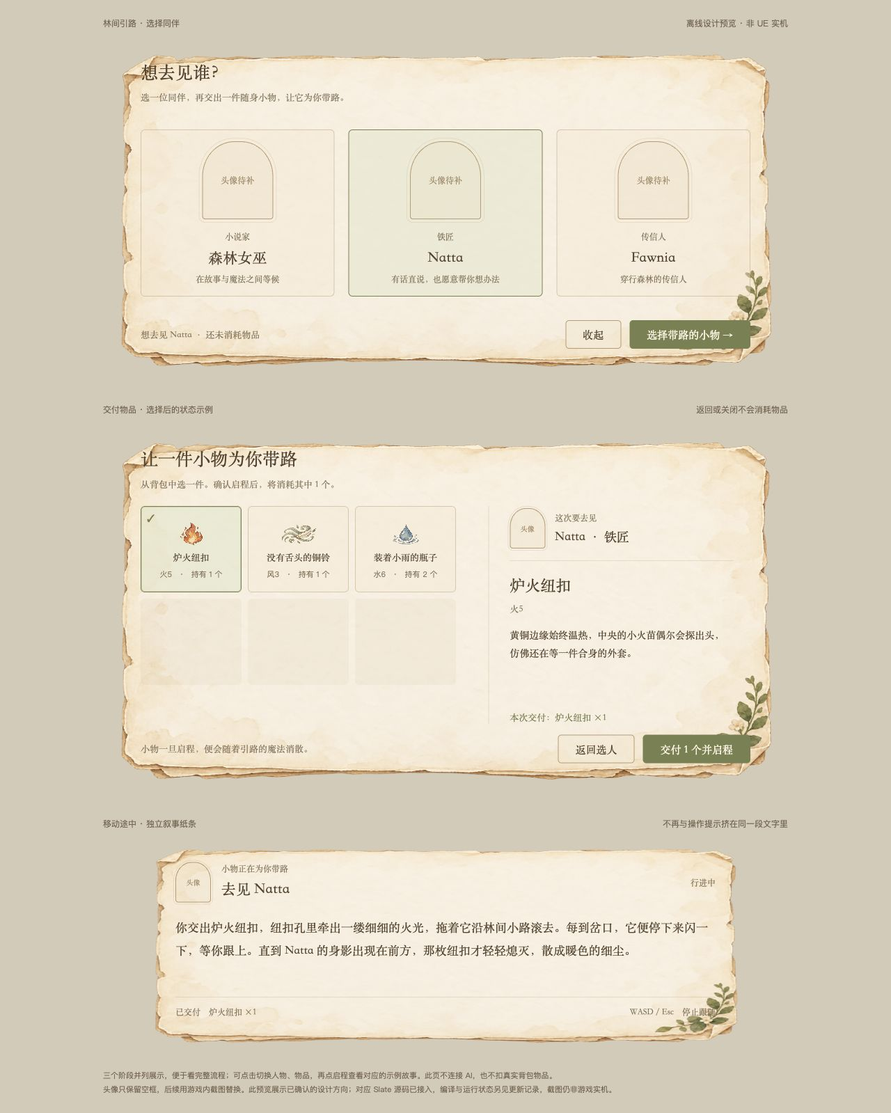
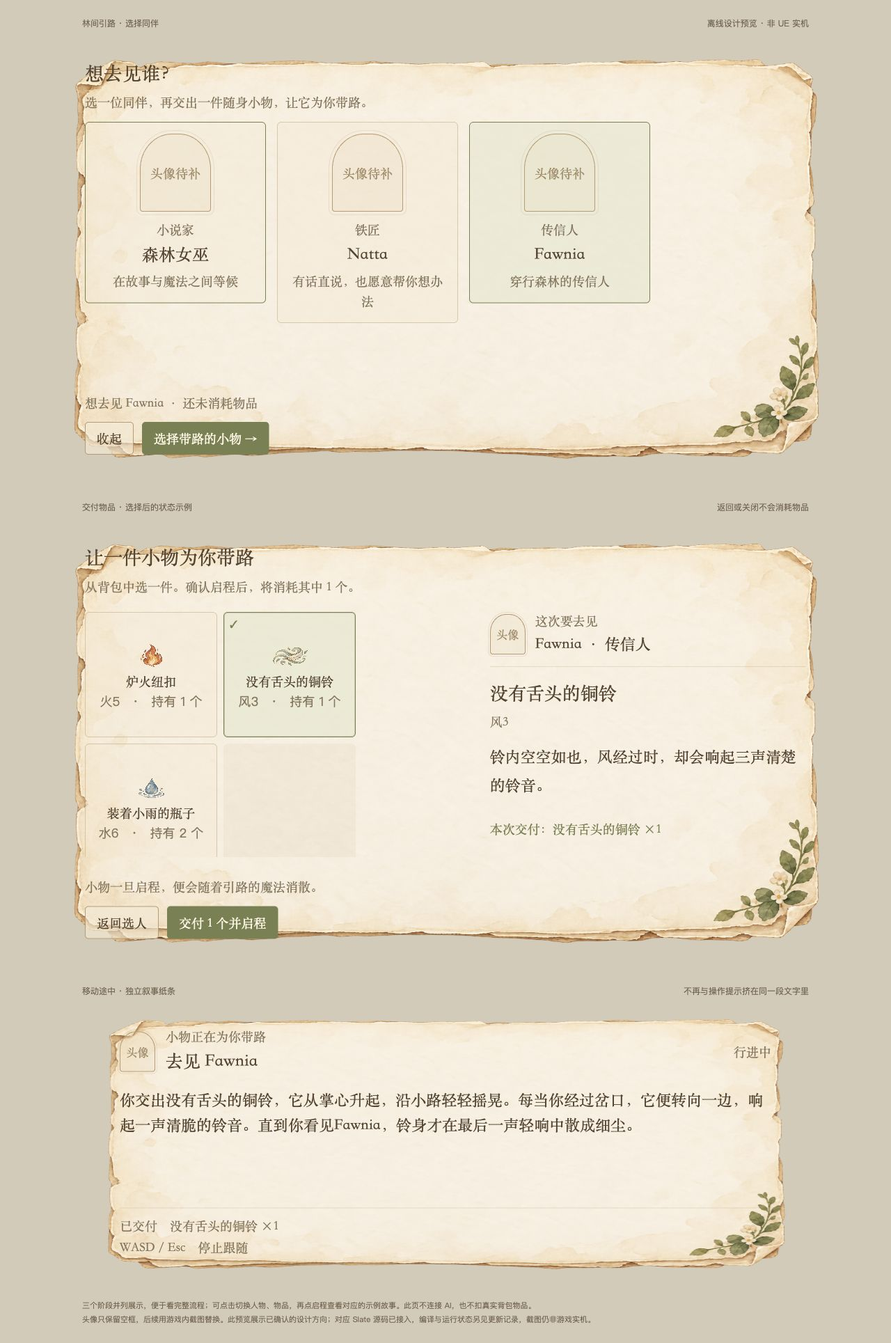
fix: reflow NPC finder payment and travel panels at readable sizes

diff --git a/Docs/NPC_Finder_Preview.html b/Docs/NPC_Finder_Preview.html
@@ -1,7 +1,11 @@
 <!doctype html><html lang="zh-CN"><meta charset="utf-8"><meta name="viewport" content="width=device-width,initial-scale=1"><title>林间引路 · 寻找同伴</title><style>
 *{box-sizing:border-box}body{margin:0;background:#d5cbb8;color:#57452f;font:16px "Songti SC",serif;padding:24px}main{width:100%;max-width:1040px;margin:auto}.label{display:flex;justify-content:space-between;font:12px sans-serif;color:#75654f;margin:0 28px 12px}.paper{background:url('../Content/UI/Textures/WoodlandPaper.png') center/100% 100% no-repeat;padding:35px 45px 43px}.paper h1{font-size:25px;font-weight:400;margin:0 0 8px}.muted{font-size:13px;color:#87765b;line-height:1.8}button{font:15px "Songti SC",serif;color:#57452f;cursor:pointer}.npcrow{display:grid;grid-template-columns:repeat(3,1fr);gap:20px;margin:20px 0 18px}.npc{background:#f4e8d155;border:1px solid #ba9b7077;border-radius:6px;padding:16px;text-align:center;min-height:228px}.npc.active{background:#dfe5c877;border-color:#77804d}.npc:hover{border-color:#77804d}.portrait{width:102px;height:112px;margin:auto auto 13px;border:1px solid #ba9b70;border-radius:45% 45% 4px 4px;outline:1px solid #ba9b7033;outline-offset:4px;background:#e9d9b944;display:flex;align-items:center;justify-content:center;color:#a48d69;font-size:12px}.npc strong{font-size:21px;font-weight:400;display:block;margin:5px 0}.role{font-size:12px;color:#87765b}.npc p{font-size:12px;margin:9px 0 0;color:#87765b}.footer{display:flex;align-items:center;gap:12px}.footer .muted{margin-right:auto}.btn{border:1px solid #ba9b70;border-radius:5px;background:#f4e8d1aa;padding:9px 24px}.btn.primary{background:#77804d;color:#fff7e5;border-color:#77804d}.btn:disabled{opacity:.45;cursor:default}.step{margin-top:24px}.payment{display:grid;grid-template-columns:57% 43%;margin:20px 0 16px;min-height:282px}.items{display:grid;grid-template-columns:repeat(3,145px);grid-auto-rows:124px;gap:9px;align-content:start}.tile{background:#f4e8d155;border:1px solid #ba9b7077;border-radius:6px;padding:8px 6px;position:relative;text-align:center}.tile.active{background:#dfe5c888;border-color:#77804d;box-shadow:inset 0 0 0 1px #77804d44}.tile .name{font-size:13px;margin:3px 0 4px}.tile small{font:11px sans-serif;color:#87765b}.tile .check{position:absolute;top:6px;left:8px;color:#77804d;font-size:15px}.empty{background:#ba9b7014;border-radius:6px}.icon{width:54px;height:44px;margin:0 auto 3px;background:url('../Content/UI/Textures/ElementEmblems.png') 0% center/300% 100%}.icon.wind{background-position:50% center}.icon.water{background-position:100% center}.detail{border-left:1px solid #ba9b7044;padding:0 24px 0 30px}.to{display:flex;align-items:center;gap:14px;border-bottom:1px solid #ba9b7044;padding-bottom:14px;margin-bottom:18px}.portrait.mini{width:51px;height:58px;margin:3px 0;font-size:10px;flex-shrink:0;outline-offset:2px}.to strong{font-size:18px;font-weight:400;display:block;margin:4px 0}.detail h2{font-size:22px;font-weight:400;margin:0 0 8px}.detail p{font-size:14px;line-height:1.85;margin:13px 0}.cost{font-size:13px;color:#77804d;margin-top:18px}.travel{width:860px;margin:0 auto;padding:34px 44px 40px}.travel-head{display:flex;align-items:center;gap:15px}.travel-head h2{font-size:21px;font-weight:400;margin:5px 0}.travel-head .right{margin-left:auto;font-size:12px;color:#87765b}.travel p{font-size:17px;line-height:1.95;margin:20px 0 15px}.travel-foot{display:flex;justify-content:space-between;font-size:12px;color:#87765b;border-top:1px solid #ba9b7044;padding-top:12px}.travel-foot button{border:0;background:none;padding:0;font:12px "Songti SC",serif;color:#87765b}.endnote{font:11px sans-serif;color:#75654f;line-height:1.8;margin:20px 28px 0}.travel-stage{padding:20px 0 10px;background:#c1bba858;border-radius:6px} .jump{scroll-margin-top:18px}
 .scale-host{position:relative;width:100%;max-width:960px;margin:0 auto;overflow:hidden}.scale-host.travel-host{max-width:860px}.scale-host>.paper{position:absolute;left:0;top:0;margin:0;transform-origin:top left;width:960px;padding:30px 42px 54px}.scale-host>.paper.select{height:500px;display:flex;flex-direction:column}.select .npcrow{flex:1;align-items:center;margin:12px 0}.scale-host>.paper.paypage{height:540px;display:flex;flex-direction:column}.paypage .payment{flex:1;min-height:0}.scale-host>.paper.travel{width:860px;height:310px;display:flex;flex-direction:column}.travel p{flex:1;min-height:0;overflow:auto;margin:16px 0}.detail{min-height:0;display:flex;flex-direction:column}.detail p{min-height:0;overflow:auto;flex:1}.items{overflow:auto;min-height:0}.label{gap:16px;line-height:1.6}.label span:last-child{text-align:right}.npcrow{gap:20px}.npc{min-height:228px}.travel-stage{background:transparent;padding:0}.endnote{margin:20px 28px 0}.footer .muted{max-width:52%}
-</style><main><header class="label"><span>林间引路 · 选择同伴</span><span>离线设计预览 · 非 UE 实机</span></header><section class="paper select"><h1>想去见谁？</h1><div class="muted">选一位同伴，再交出一件随身小物，让它为你带路。</div><div class="npcrow">
+
+/* Responsive Slate counterpart: reflow content without reducing text size. */
+main{max-width:1100px}.scale-host{max-width:1100px}.scale-host.travel-host{max-width:1000px}.scale-host>.paper{position:relative;width:100%;transform:none!important;padding:30px 32px 42px}.scale-host>.paper.select,.scale-host>.paper.paypage{height:min(640px,calc(100dvh - 48px))}.scale-host>.paper.travel{width:100%;height:min(400px,calc(100dvh - 48px))}.paper h1{font-size:27px}.muted,.role,.npc p,.cost,.travel-foot,.travel-foot button,.tile small{font-size:18px}.npc strong{font-size:24px}.npc p{line-height:1.6}.portrait{font-size:18px}.portrait.mini{font-size:16px}.npcrow{display:flex;flex-wrap:wrap;align-content:flex-start;overflow:auto;min-height:0;align-items:flex-start!important;gap:16px}.npc{width:260px;max-width:100%;flex:0 0 auto}.footer{flex-wrap:wrap;flex-shrink:0}.footer .muted{max-width:none;flex-basis:100%;margin:0}.btn{font-size:18px;padding:10px 16px}.payment{display:flex;gap:24px;overflow:auto;min-height:0;align-items:flex-start}.items{grid-template-columns:repeat(auto-fill,minmax(min(190px,100%),190px));grid-auto-rows:180px;flex:0 0 calc(55% - 12px);overflow:visible}.detail{flex:0 0 calc(45% - 12px);padding:0;border:0;min-width:0}.detail p{font-size:22px;overflow:visible;flex:none}.detail h2{font-size:26px}.tile .name{font-size:18px}.tile small{font-size:18px}.to strong{font-size:22px}.travel p{font-size:22px;line-height:1.6}.travel-head h2{font-size:25px}.travel-head .right{font-size:18px}.travel-foot{display:block}.travel-foot button{display:block;margin-top:6px}.travel-head>div{min-width:0}.select .footer,.paypage .footer{margin-top:10px}.label{flex-wrap:wrap}
+@media(max-width:927px){.payment{display:block}.items{margin-bottom:20px}.detail{display:block}.detail p{font-size:22px}.footer{gap:8px}.npc{width:min(260px,100%)}.paper h1{font-size:27px}.travel-head .right{display:none}}
+@media(max-width:747px){.scale-host>.paper.travel{height:min(600px,calc(100dvh - 48px))}}</style><main><header class="label"><span>林间引路 · 选择同伴</span><span>离线设计预览 · 非 UE 实机</span></header><section class="paper select"><h1>想去见谁？</h1><div class="muted">选一位同伴，再交出一件随身小物，让它为你带路。</div><div class="npcrow">
 <button class="npc" data-npc="森林女巫" data-role="小说家"><div class="portrait">头像待补</div><span class="role">小说家</span><strong>森林女巫</strong><p>在故事与魔法之间等候</p></button>
 <button class="npc active" data-npc="Natta" data-role="铁匠"><div class="portrait">头像待补</div><span class="role">铁匠</span><strong>Natta</strong><p>有话直说，也愿意帮你想办法</p></button>
 <button class="npc" data-npc="Fawnia" data-role="传信人"><div class="portrait">头像待补</div><span class="role">传信人</span><strong>Fawnia</strong><p>穿行森林的传信人</p></button></div><footer class="footer"><span class="muted" id="npc-hint">想去见 Natta · 还未消耗物品</span><button class="btn">收起</button><button class="btn primary" id="next">选择带路的小物 →</button></footer></section>
@@ -11,8 +15,5 @@
 <button class="tile" data-name="装着小雨的瓶子" data-attr="水6" data-desc="软木塞下飘着一片小云，瓶壁上不时滑过一滴刚落下的雨。"><span class="check"></span><div class="icon water"></div><div class="name">装着小雨的瓶子</div><small>水6　·　持有 2 个</small></button><div class="empty"></div><div class="empty"></div><div class="empty"></div></div><article class="detail"><div class="to"><div class="portrait mini">头像</div><div><span class="role">这次要去见</span><strong id="target">Natta · 铁匠</strong></div></div><h2 id="item-name">炉火纽扣</h2><span class="muted" id="attr">火5</span><p id="desc">黄铜边缘始终温热，中央的小火苗偶尔会探出头，仿佛还在等一件合身的外套。</p><div class="cost" id="cost">本次交付：炉火纽扣 ×1</div></article></div><footer class="footer"><span class="muted">小物一旦启程，便会随着引路的魔法消散。</span><button class="btn" id="back">返回选人</button><button class="btn primary" id="depart">交付 1 个并启程</button></footer></section>
 <header class="label step"><span>移动途中 · 独立叙事纸条</span><span>不再与操作提示挤在同一段文字里</span></header><div class="travel-stage jump" id="travel"><section class="paper travel"><div class="travel-head"><div class="portrait mini">头像</div><div><div class="role">小物正在为你带路</div><h2 id="travel-title">去见 Natta</h2></div><span class="right">行进中</span></div><p id="story">你交出炉火纽扣，纽扣孔里牵出一缕细细的火光，拖着它沿林间小路滚去。每到岔口，它便停下来闪一下，等你跟上。直到 Natta 的身影出现在前方，那枚纽扣才轻轻熄灭，散成暖色的细尘。</p><footer class="travel-foot"><span id="spent">已交付　炉火纽扣 ×1</span><button id="cancel">WASD / Esc　停止跟随</button></footer></section></div><p class="endnote">三个阶段并列展示，便于看完整流程；可点击切换人物、物品，再点启程查看对应的示例故事。此页不连接 AI，也不扣真实背包物品。<br>头像只保留空框，后续用游戏内截图替换。此预览展示已确认的设计方向；对应 Slate 源码已接入，编译与运行状态另见更新记录，截图仍非游戏实机。</p></main><script>
 for(const paper of document.querySelectorAll('.paper')){const host=document.createElement('div');host.className='scale-host'+(paper.classList.contains('travel')?' travel-host':'');paper.parentNode.insertBefore(host,paper);host.appendChild(paper)}
-function fitPanels(){for(const host of document.querySelectorAll('.scale-host')){const p=host.firstElementChild;const w=p.classList.contains('travel')?860:960;const h=p.classList.contains('select')?500:p.classList.contains('travel')?310:540;const scale=Math.min(1,host.clientWidth/w,Math.max(1,innerHeight-48)/h);p.style.transform='scale('+scale+')';host.style.height=(h*scale)+'px'}}
-new ResizeObserver(fitPanels).observe(document.querySelector('main'));addEventListener('resize',fitPanels);fitPanels();
-
-let npc='Natta',role='铁匠',item='炉火纽扣';const items=[...document.querySelectorAll('.tile')];document.querySelectorAll('.npc').forEach(b=>b.onclick=()=>{document.querySelectorAll('.npc').forEach(x=>x.classList.remove('active'));b.classList.add('active');npc=b.dataset.npc;role=b.dataset.role;document.querySelector('#target').textContent=npc+' · '+role;document.querySelector('#npc-hint').textContent='想去见 '+npc+' · 还未消耗物品';items.forEach(x=>{x.classList.remove('active');x.querySelector('.check').textContent=''});item='';document.querySelector('#item-name').textContent='选择一件小物';document.querySelector('#attr').textContent='';document.querySelector('#desc').textContent='在左侧点击物品，查看它的描述与交付数量。';document.querySelector('#cost').textContent='尚未选择，不会扣除物品';document.querySelector('#depart').disabled=true});items.forEach(b=>b.onclick=()=>{items.forEach(x=>{x.classList.remove('active');x.querySelector('.check').textContent=''});b.classList.add('active');b.querySelector('.check').textContent='✓';item=b.dataset.name;document.querySelector('#item-name').textContent=item;document.querySelector('#attr').textContent=b.dataset.attr;document.querySelector('#desc').textContent=b.dataset.desc;document.querySelector('#cost').textContent='本次交付：'+item+' ×1';document.querySelector('#depart').disabled=false});document.querySelector('#next').onclick=()=>document.querySelector('#payment').parentElement.scrollIntoView();document.querySelector('#back').onclick=()=>window.scrollTo({top:0});document.querySelector('#depart').onclick=()=>{if(!item)return;document.querySelector('#travel-title').textContent='去见 '+npc;document.querySelector('#spent').textContent='已交付　'+item+' ×1';let story=item.includes('铜铃')?'你交出'+item+'，它从掌心升起，沿小路轻轻摇晃。每当你经过岔口，它便转向一边，响起一声清脆的铃音。直到你看见'+npc+'，铃身才在最后一声轻响中散成细尘。':item.includes('瓶子')?'你交出'+item+'，瓶中的小雨贴着玻璃转了一圈，带着瓶子向前飘去。它在林间拐弯，停下来等你，再继续轻轻摇晃。直到'+npc+'出现在前方，瓶身才化成一小阵雨，落在路边的草叶上。':'你交出'+item+'，纽扣孔里牵出一缕细细的火光，拖着它沿林间小路滚去。每到岔口，它便停下来闪一下，等你跟上。直到'+npc+'的身影出现在前方，那枚纽扣才轻轻熄灭，散成暖色的细尘。';document.querySelector('#story').textContent=story;document.querySelector('#travel').scrollIntoView()};document.querySelector('#cancel').onclick=()=>{document.querySelector('#travel-title').textContent='已停止跟随';document.querySelector('#story').textContent='引路的小物已散去。你在林间停下脚步，可以继续自由探索。'};
+let npc='Natta',role='铁匠',item='炉火纽扣';const items=[...document.querySelectorAll('.tile')];document.querySelectorAll('.npc').forEach(b=>b.onclick=()=>{document.querySelectorAll('.npc').forEach(x=>x.classList.remove('active'));b.classList.add('active');npc=b.dataset.npc;role=b.dataset.role;document.querySelector('#target').textContent=npc+' · '+role;document.querySelector('#npc-hint').textContent='想去见 '+npc+' · 还未消耗物品';items.forEach(x=>{x.classList.remove('active');x.querySelector('.check').textContent=''});item='';document.querySelector('#item-name').textContent='选择一件小物';document.querySelector('#attr').textContent='';document.querySelector('#desc').textContent='点击物品，查看它的描述与交付数量。';document.querySelector('#cost').textContent='尚未选择，不会扣除物品';document.querySelector('#depart').disabled=true});items.forEach(b=>b.onclick=()=>{items.forEach(x=>{x.classList.remove('active');x.querySelector('.check').textContent=''});b.classList.add('active');b.querySelector('.check').textContent='✓';item=b.dataset.name;document.querySelector('#item-name').textContent=item;document.querySelector('#attr').textContent=b.dataset.attr;document.querySelector('#desc').textContent=b.dataset.desc;document.querySelector('#cost').textContent='本次交付：'+item+' ×1';document.querySelector('#depart').disabled=false});document.querySelector('#next').onclick=()=>document.querySelector('#payment').parentElement.scrollIntoView();document.querySelector('#back').onclick=()=>window.scrollTo({top:0});document.querySelector('#depart').onclick=()=>{if(!item)return;document.querySelector('#travel-title').textContent='去见 '+npc;document.querySelector('#spent').textContent='已交付　'+item+' ×1';let story=item.includes('铜铃')?'你交出'+item+'，它从掌心升起，沿小路轻轻摇晃。每当你经过岔口，它便转向一边，响起一声清脆的铃音。直到你看见'+npc+'，铃身才在最后一声轻响中散成细尘。':item.includes('瓶子')?'你交出'+item+'，瓶中的小雨贴着玻璃转了一圈，带着瓶子向前飘去。它在林间拐弯，停下来等你，再继续轻轻摇晃。直到'+npc+'出现在前方，瓶身才化成一小阵雨，落在路边的草叶上。':'你交出'+item+'，纽扣孔里牵出一缕细细的火光，拖着它沿林间小路滚去。每到岔口，它便停下来闪一下，等你跟上。直到'+npc+'的身影出现在前方，那枚纽扣才轻轻熄灭，散成暖色的细尘。';document.querySelector('#story').textContent=story;document.querySelector('#travel').scrollIntoView()};document.querySelector('#cancel').onclick=()=>{document.querySelector('#travel-title').textContent='已停止跟随';document.querySelector('#story').textContent='引路的小物已散去。你在林间停下脚步，可以继续自由探索。'};
 </script></html>

diff --git a/Source/demo3_UE58/ForestNPCInteraction.cpp b/Source/demo3_UE58/ForestNPCInteraction.cpp
@@ -22,7 +22,6 @@
 #include "Widgets/Layout/SBorder.h"
 #include "Widgets/Layout/SBox.h"
 #include "Widgets/Layout/SScrollBox.h"
-#include "Widgets/Layout/SScaleBox.h"
 #include "Widgets/Layout/SWrapBox.h"
 #include "Widgets/Layout/SWidgetSwitcher.h"
 #include "Widgets/Images/SImage.h"
@@ -36,6 +35,7 @@ namespace ForestUI
 {
  using ForestTheme::Ink;using ForestTheme::Muted;using ForestTheme::Moss;
  using ForestTheme::Font;using ForestTheme::Fill;
+ FSlateFontInfo FinderFont(int32 Size){return Font(FMath::Max(16,Size+4));}
 
  struct FItemView
  {
@@ -63,7 +63,7 @@ namespace ForestUI
   static const FSlateRoundedBoxBrush Frame(FLinearColor(1,1,1,.08f),FVector4(35,35,4,4),ForestTheme::Edge,1.f);
   return SNew(SBox).WidthOverride(Width).HeightOverride(Height)
    [SNew(SBorder).BorderImage(&Frame).HAlign(HAlign_Center).VAlign(VAlign_Center)
-    [SNew(STextBlock).Text(FText::FromString(TEXT("头像待补"))).Font(Font(9)).ColorAndOpacity(Muted)]];
+    [SNew(STextBlock).Text(FText::FromString(TEXT("头像待补"))).Font(FinderFont(12)).ColorAndOpacity(Muted).WrapTextAt(FMath::Max(1.f,Width-10.f)).Justification(ETextJustify::Center)]];
  }
 }
 
@@ -80,74 +80,71 @@ void UForestNPCInteractionWidget::SetPanel(EPanel Mode)
 TSharedRef<SWidget> UForestNPCInteractionWidget::RebuildWidget()
 {
  SetIsFocusable(true);
- auto Text=[](const FString& Value,int32 Size){return SNew(STextBlock).Text(FText::FromString(Value)).Font(ForestUI::Font(Size)).ColorAndOpacity(ForestUI::Ink).AutoWrapText(true);};
- auto Secondary=[&Text](const TCHAR* Label,FOnClicked Action)->TSharedRef<SWidget>{
-  return SNew(SButton).ButtonStyle(&ForestTheme::SecondaryButton()).ContentPadding(FMargin(20,9)).OnClicked(Action)[Text(Label,12)];
- };
- auto NpcCard=[this](const TCHAR* Role,const TCHAR* Name,const TCHAR* Detail,FName Persona)->TSharedRef<SWidget>{
+ auto Text=[this](const FString& Value,int32 Size){return SNew(STextBlock).Text(FText::FromString(Value))
+  .Font_Lambda([this,Size](){return Panel==EPanel::Selecting || Panel==EPanel::Confirming || Panel==EPanel::Travelling?ForestUI::FinderFont(Size):ForestUI::Font(Size);})
+  .ColorAndOpacity(ForestUI::Ink).AutoWrapText(true);};
+ auto Secondary=[&Text](const TCHAR* Label,FOnClicked Action)->TSharedRef<SWidget>{return SNew(SButton).ButtonStyle(&ForestTheme::SecondaryButton()).ContentPadding(FMargin(16,10)).OnClicked(Action)[Text(Label,12)];};
+ auto Cancel=FOnClicked::CreateLambda([this](){FinderCancelClicked();return FReply::Handled();});
+ auto NpcCard=[this](const TCHAR* Role,const TCHAR* Name,const TCHAR* Detail,FName Persona)->TSharedRef<SWidget>
+ {
   const FString SafeName(Name);
-  return SNew(SButton).ButtonStyle(&ForestTheme::SecondaryButton()).ContentPadding(FMargin(18,16))
+  return SNew(SBox).WidthOverride_Lambda([this](){return FMath::Max(1.f,FMath::Min(260.f,LayoutWidth-64.f));})
+  [SNew(SButton).ButtonStyle(&ForestTheme::SecondaryButton()).ContentPadding(FMargin(16))
    .ButtonColorAndOpacity_Lambda([this,Persona](){return SelectedFinderPersona==Persona?ForestTheme::SelectedPaper:FLinearColor::White;})
    .OnClicked_Lambda([this,Persona,SafeName](){SelectedFinderPersona=Persona;Prompt->SetText(FText::FromString(FString::Printf(TEXT("想去见 %s · 还未消耗物品"),*SafeName)));return FReply::Handled();})
    [SNew(SVerticalBox)
-    +SVerticalBox::Slot().AutoHeight().HAlign(HAlign_Center).Padding(0,0,0,14)[ForestUI::Portrait(100,112)]
-    +SVerticalBox::Slot().AutoHeight().HAlign(HAlign_Center)[SNew(STextBlock).Text(FText::FromString(Role)).Font(ForestUI::Font(10)).ColorAndOpacity(ForestUI::Muted)]
-    +SVerticalBox::Slot().AutoHeight().HAlign(HAlign_Center).Padding(0,6)[SNew(STextBlock).Text(FText::FromString(Name)).Font(ForestUI::Font(18)).ColorAndOpacity(ForestUI::Ink)]
-    +SVerticalBox::Slot().AutoHeight().HAlign(HAlign_Center)[SNew(STextBlock).Text(FText::FromString(Detail)).Font(ForestUI::Font(10)).ColorAndOpacity(ForestUI::Muted).WrapTextAt(230).Justification(ETextJustify::Center)]];
+    +SVerticalBox::Slot().AutoHeight().HAlign(HAlign_Center).Padding(0,0,0,12)[ForestUI::Portrait(100,112)]
+    +SVerticalBox::Slot().AutoHeight()[SNew(STextBlock).Text(FText::FromString(Role)).Font(ForestUI::FinderFont(10)).ColorAndOpacity(ForestUI::Muted).Justification(ETextJustify::Center).AutoWrapText(true)]
+    +SVerticalBox::Slot().AutoHeight().Padding(0,6)[SNew(STextBlock).Text(FText::FromString(Name)).Font(ForestUI::FinderFont(18)).ColorAndOpacity(ForestUI::Ink).Justification(ETextJustify::Center).AutoWrapText(true)]
+    +SVerticalBox::Slot().AutoHeight()[SNew(STextBlock).Text(FText::FromString(Detail)).Font(ForestUI::FinderFont(10)).ColorAndOpacity(ForestUI::Muted).Justification(ETextJustify::Center).AutoWrapText(true)]]];
  };
- auto Cancel=FOnClicked::CreateLambda([this](){FinderCancelClicked();return FReply::Handled();});
  TSharedRef<SWidget> Selection=SNew(SVerticalBox)
-  +SVerticalBox::Slot().FillHeight(1.f).VAlign(VAlign_Center).Padding(0,12,0,20)
-   [SNew(SHorizontalBox)
-    +SHorizontalBox::Slot().FillWidth(1).Padding(0,0,10,0)[NpcCard(TEXT("小说家"),TEXT("森林女巫"),TEXT("在故事与魔法之间等候"),TEXT("forest_witch"))]
-    +SHorizontalBox::Slot().FillWidth(1).Padding(10,0)[NpcCard(TEXT("铁匠"),TEXT("Natta"),TEXT("有话直说，也愿意帮你想办法"),TEXT("natta"))]
-    +SHorizontalBox::Slot().FillWidth(1).Padding(10,0,0,0)[NpcCard(TEXT("传信人"),TEXT("Fawnia"),TEXT("穿行森林的传信人"),TEXT("fawnia"))]]
-  +SVerticalBox::Slot().AutoHeight().HAlign(HAlign_Right)
-   [SNew(SHorizontalBox)
-    +SHorizontalBox::Slot().AutoWidth().Padding(0,0,10,0)[Secondary(TEXT("收起"),Cancel)]
-    +SHorizontalBox::Slot().AutoWidth()
-     [SNew(SButton).ButtonStyle(&ForestTheme::PrimaryButton()).ContentPadding(FMargin(20,9)).IsEnabled_Lambda([this](){return !SelectedFinderPersona.IsNone();})
-      .OnClicked_Lambda([this](){if(Manager.IsValid() && !SelectedFinderPersona.IsNone())Manager->SelectNpcForFinding(SelectedFinderPersona);return FReply::Handled();})
-      [SNew(STextBlock).Text(FText::FromString(TEXT("选择带路的小物 →"))).Font(ForestUI::Font(12)).ColorAndOpacity(ForestTheme::OnMoss)]]];
+  +SVerticalBox::Slot().FillHeight(1).Padding(0,16)
+   [SNew(SScrollBox).ScrollBarAlwaysVisible(true)+SScrollBox::Slot()
+    [SNew(SWrapBox).UseAllottedSize(true).InnerSlotPadding(FVector2D(16,16))
+     +SWrapBox::Slot()[NpcCard(TEXT("小说家"),TEXT("森林女巫"),TEXT("在故事与魔法之间等候"),TEXT("forest_witch"))]
+     +SWrapBox::Slot()[NpcCard(TEXT("铁匠"),TEXT("Natta"),TEXT("有话直说，也愿意帮你想办法"),TEXT("natta"))]
+     +SWrapBox::Slot()[NpcCard(TEXT("传信人"),TEXT("Fawnia"),TEXT("穿行森林的传信人"),TEXT("fawnia"))]]]
+  +SVerticalBox::Slot().AutoHeight()
+   [SNew(SWrapBox).UseAllottedSize(true).InnerSlotPadding(FVector2D(10,8))
+    +SWrapBox::Slot()[Secondary(TEXT("收起"),Cancel)]
+    +SWrapBox::Slot()[SNew(SButton).ButtonStyle(&ForestTheme::PrimaryButton()).ContentPadding(FMargin(16,10)).IsEnabled_Lambda([this](){return !SelectedFinderPersona.IsNone();})
+     .OnClicked_Lambda([this](){if(Manager.IsValid() && !SelectedFinderPersona.IsNone())Manager->SelectNpcForFinding(SelectedFinderPersona);return FReply::Handled();})
+     [SNew(STextBlock).Text(FText::FromString(TEXT("选择带路的小物 →"))).Font(ForestUI::FinderFont(12)).ColorAndOpacity(ForestTheme::OnMoss).AutoWrapText(true)]]];
  TSharedRef<SWidget> Confirmation=SNew(SVerticalBox)
-  +SVerticalBox::Slot().FillHeight(1).Padding(0,18,0,18)
-   [SNew(SHorizontalBox)
-    +SHorizontalBox::Slot().FillWidth(.57f).Padding(0,0,24,0)
-     [SNew(SScrollBox)+SScrollBox::Slot()[SAssignNew(FinderGrid,SWrapBox).UseAllottedSize(true).InnerSlotPadding(FVector2D(9,9))]]
-    +SHorizontalBox::Slot().FillWidth(.43f).Padding(18,0,0,0)
-     [SNew(SVerticalBox)
-      +SVerticalBox::Slot().AutoHeight().Padding(0,0,0,16)
-       [SNew(SHorizontalBox)
-        +SHorizontalBox::Slot().AutoWidth().Padding(0,0,12,0)[ForestUI::Portrait(52,60)]
-        +SHorizontalBox::Slot().FillWidth(1).VAlign(VAlign_Center)
-         [SNew(SVerticalBox)
-          +SVerticalBox::Slot().AutoHeight()[SNew(STextBlock).Text(FText::FromString(TEXT("这次要去见"))).Font(ForestUI::Font(10)).ColorAndOpacity(ForestUI::Muted)]
-          +SVerticalBox::Slot().AutoHeight().Padding(0,4)[SAssignNew(FinderTargetName,STextBlock).Font(ForestUI::Font(16)).ColorAndOpacity(ForestUI::Ink).AutoWrapText(true)]]]
-      +SVerticalBox::Slot().AutoHeight()[SAssignNew(FinderItemName,STextBlock).Font(ForestUI::Font(20)).ColorAndOpacity(ForestUI::Ink).AutoWrapText(true)]
-      +SVerticalBox::Slot().AutoHeight().Padding(0,6)[SAssignNew(FinderItemAttribute,STextBlock).Font(ForestUI::Font(11)).ColorAndOpacity(ForestUI::Muted)]
-      +SVerticalBox::Slot().FillHeight(1).Padding(0,8)[SNew(SScrollBox)+SScrollBox::Slot()[SAssignNew(FinderItemDescription,STextBlock).Font(ForestUI::Font(13)).ColorAndOpacity(ForestUI::Ink).AutoWrapText(true)]]
-      +SVerticalBox::Slot().AutoHeight().Padding(0,10,0,0)[SAssignNew(FinderFee,STextBlock).Font(ForestUI::Font(12)).ColorAndOpacity(ForestUI::Moss).AutoWrapText(true)]]]
-  +SVerticalBox::Slot().AutoHeight().HAlign(HAlign_Right)
-   [SNew(SHorizontalBox)
-    +SHorizontalBox::Slot().AutoWidth().Padding(0,0,10,0)[Secondary(TEXT("返回选人"),Cancel)]
-    +SHorizontalBox::Slot().AutoWidth()
-     [SAssignNew(FinderConfirm,SButton).ButtonStyle(&ForestTheme::PrimaryButton()).ContentPadding(FMargin(20,9)).OnClicked_Lambda([this](){FinderConfirmClicked();return FReply::Handled();})
-      [SNew(STextBlock).Text(FText::FromString(TEXT("交付 1 个并启程"))).Font(ForestUI::Font(12)).ColorAndOpacity(ForestTheme::OnMoss)]]];
+  +SVerticalBox::Slot().FillHeight(1).Padding(0,16)
+   [SNew(SScrollBox).ScrollBarAlwaysVisible(true)+SScrollBox::Slot()
+    [SNew(SWrapBox).UseAllottedSize(true).InnerSlotPadding(FVector2D(24,18))
+     +SWrapBox::Slot()[SNew(SBox).WidthOverride_Lambda([this](){const float Inner=FMath::Max(1.f,LayoutWidth-84.f);return LayoutWidth<880.f?Inner:(Inner-24.f)*.55f;})
+      [SAssignNew(FinderGrid,SWrapBox).UseAllottedSize(true).InnerSlotPadding(FVector2D(9,9))]]
+     +SWrapBox::Slot()[SNew(SBox).WidthOverride_Lambda([this](){const float Inner=FMath::Max(1.f,LayoutWidth-84.f);return LayoutWidth<880.f?Inner:(Inner-24.f)*.45f;})
+      [SNew(SVerticalBox)
+       +SVerticalBox::Slot().AutoHeight().Padding(0,0,0,16)
+        [SNew(SHorizontalBox)
+         +SHorizontalBox::Slot().AutoWidth().Padding(0,0,12,0)[ForestUI::Portrait(52,60)]
+         +SHorizontalBox::Slot().FillWidth(1)[SNew(SVerticalBox)
+          +SVerticalBox::Slot().AutoHeight()[Text(TEXT("这次要去见"),10)]
+          +SVerticalBox::Slot().AutoHeight().Padding(0,4)[SAssignNew(FinderTargetName,STextBlock).Font(ForestUI::FinderFont(16)).ColorAndOpacity(ForestUI::Ink).AutoWrapText(true)]]]
+       +SVerticalBox::Slot().AutoHeight()[SAssignNew(FinderItemName,STextBlock).Font(ForestUI::FinderFont(20)).ColorAndOpacity(ForestUI::Ink).AutoWrapText(true)]
+       +SVerticalBox::Slot().AutoHeight().Padding(0,6)[SAssignNew(FinderItemAttribute,STextBlock).Font(ForestUI::FinderFont(11)).ColorAndOpacity(ForestUI::Muted).AutoWrapText(true)]
+       +SVerticalBox::Slot().AutoHeight().Padding(0,8)[SAssignNew(FinderItemDescription,STextBlock).Font(ForestUI::FinderFont(16)).ColorAndOpacity(ForestUI::Ink).AutoWrapText(true)]
+       +SVerticalBox::Slot().AutoHeight().Padding(0,10,0,0)[SAssignNew(FinderFee,STextBlock).Font(ForestUI::FinderFont(12)).ColorAndOpacity(ForestUI::Moss).AutoWrapText(true)]]]]]
+  +SVerticalBox::Slot().AutoHeight()
+   [SNew(SWrapBox).UseAllottedSize(true).InnerSlotPadding(FVector2D(10,8))
+    +SWrapBox::Slot()[Secondary(TEXT("返回选人"),Cancel)]
+    +SWrapBox::Slot()[SAssignNew(FinderConfirm,SButton).ButtonStyle(&ForestTheme::PrimaryButton()).ContentPadding(FMargin(16,10)).OnClicked_Lambda([this](){FinderConfirmClicked();return FReply::Handled();})
+     [SNew(STextBlock).Text(FText::FromString(TEXT("交付 1 个并启程"))).Font(ForestUI::FinderFont(12)).ColorAndOpacity(ForestTheme::OnMoss).AutoWrapText(true)]]];
  TSharedRef<SWidget> Travel=SNew(SVerticalBox)
   +SVerticalBox::Slot().AutoHeight()
    [SNew(SHorizontalBox)
     +SHorizontalBox::Slot().AutoWidth().Padding(0,0,14,0)[ForestUI::Portrait(52,60)]
-    +SHorizontalBox::Slot().FillWidth(1).VAlign(VAlign_Center)
-     [SNew(SVerticalBox)
-      +SVerticalBox::Slot().AutoHeight()[SNew(STextBlock).Text(FText::FromString(TEXT("小物正在为你带路"))).Font(ForestUI::Font(10)).ColorAndOpacity(ForestUI::Muted)]
-      +SVerticalBox::Slot().AutoHeight().Padding(0,5)[SAssignNew(TravelTarget,STextBlock).Font(ForestUI::Font(19)).ColorAndOpacity(ForestUI::Ink).AutoWrapText(true)]]
-    +SHorizontalBox::Slot().AutoWidth().VAlign(VAlign_Center)[SNew(STextBlock).Text(FText::FromString(TEXT("行进中"))).Font(ForestUI::Font(10)).ColorAndOpacity(ForestUI::Muted)]]
-  +SVerticalBox::Slot().FillHeight(1).Padding(0,18,0,14)
-   [SNew(SScrollBox)+SScrollBox::Slot()[SAssignNew(TravelStory,STextBlock).Font(ForestUI::Font(15)).ColorAndOpacity(ForestUI::Ink).AutoWrapText(true)]]
-  +SVerticalBox::Slot().AutoHeight()
-   [SNew(SHorizontalBox)
-    +SHorizontalBox::Slot().FillWidth(1)[SAssignNew(TravelFee,STextBlock).Font(ForestUI::Font(10)).ColorAndOpacity(ForestUI::Muted).AutoWrapText(true)]
-    +SHorizontalBox::Slot().AutoWidth()[SNew(STextBlock).Text(FText::FromString(TEXT("WASD / Esc　停止跟随"))).Font(ForestUI::Font(10)).ColorAndOpacity(ForestUI::Muted)]];
+    +SHorizontalBox::Slot().FillWidth(1)[SNew(SVerticalBox)
+     +SVerticalBox::Slot().AutoHeight()[Text(TEXT("小物正在为你带路"),10)]
+     +SVerticalBox::Slot().AutoHeight().Padding(0,5)[SAssignNew(TravelTarget,STextBlock).Font(ForestUI::FinderFont(19)).ColorAndOpacity(ForestUI::Ink).AutoWrapText(true)]]]
+  +SVerticalBox::Slot().FillHeight(1).Padding(0,14)
+   [SNew(SScrollBox)+SScrollBox::Slot()[SAssignNew(TravelStory,STextBlock).Font(ForestUI::FinderFont(16)).ColorAndOpacity(ForestUI::Ink).AutoWrapText(true)]]
+  +SVerticalBox::Slot().AutoHeight()[SAssignNew(TravelFee,STextBlock).Font(ForestUI::FinderFont(10)).ColorAndOpacity(ForestUI::Muted).AutoWrapText(true)]
+  +SVerticalBox::Slot().AutoHeight().Padding(0,4,0,0)[Text(TEXT("WASD / Esc　停止跟随"),10)];
  TSharedRef<SWidget> DialoguePanel=SNew(SVerticalBox)
   +SVerticalBox::Slot().FillHeight(1).Padding(0,12,0,10)
    [SAssignNew(Scroll,SScrollBox)+SScrollBox::Slot()[SAssignNew(Message,STextBlock).Font(ForestUI::Font(15)).ColorAndOpacity(ForestUI::Ink).AutoWrapText(true)]]
@@ -161,25 +158,30 @@ TSharedRef<SWidget> UForestNPCInteractionWidget::RebuildWidget()
       [SNew(STextBlock).Text(FText::FromString(TEXT("发送　Enter"))).Font(ForestUI::Font(12)).ColorAndOpacity(ForestTheme::OnMoss)]]
     +SHorizontalBox::Slot().AutoWidth()[Secondary(TEXT("结束交谈　Esc"),FOnClicked::CreateLambda([this](){CloseClicked();return FReply::Handled();}))]];
  TSharedRef<SOverlay> Built=SNew(SOverlay)
-  +SOverlay::Slot().HAlign(HAlign_Fill).VAlign(VAlign_Fill).Padding(FMargin(24))
-   [SAssignNew(AdaptivePanel,SScaleBox).Stretch(EStretch::ScaleToFit).StretchDirection(EStretchDirection::DownOnly).VAlign(VAlign_Bottom)
-    [SNew(SBox)
-     .WidthOverride_Lambda([this](){return Panel==EPanel::Travelling?860.f:(Panel==EPanel::Conversation || Panel==EPanel::Notice)?760.f:960.f;})
-     .HeightOverride_Lambda([this]()->FOptionalSize{return Panel==EPanel::Notice?FOptionalSize():FOptionalSize(Panel==EPanel::Travelling?310.f:Panel==EPanel::Selecting?500.f:540.f);})
-     [SNew(SForestPaperBorder).Padding(FMargin(42,30,42,54))
+  +SOverlay::Slot().Padding(FMargin(24))
+   [SAssignNew(AdaptivePanel,SBox).HAlign(HAlign_Center).VAlign(VAlign_Bottom)
+    [SAssignNew(PanelFrame,SBox).WidthOverride(760)
+     [SNew(SForestPaperBorder).Padding(FMargin(32,30,32,42))
       [SNew(SVerticalBox)
-       +SVerticalBox::Slot().AutoHeight()[SAssignNew(Title,STextBlock).Font(ForestUI::Font(21)).ColorAndOpacity(ForestUI::Ink).AutoWrapText(true)]
-       +SVerticalBox::Slot().AutoHeight().Padding(0,8,0,0)[SAssignNew(Subtitle,STextBlock).Font(ForestUI::Font(11)).ColorAndOpacity(ForestUI::Muted).AutoWrapText(true)]
-       +SVerticalBox::Slot().FillHeight(1)
-        [SAssignNew(Switcher,SWidgetSwitcher)
-         +SWidgetSwitcher::Slot()[SNullWidget::NullWidget]
-         +SWidgetSwitcher::Slot()[DialoguePanel]
-         +SWidgetSwitcher::Slot()[Selection]
-         +SWidgetSwitcher::Slot()[Confirmation]
-         +SWidgetSwitcher::Slot()[Travel]]
-       +SVerticalBox::Slot().AutoHeight().Padding(0,12,0,0)[SAssignNew(Prompt,STextBlock).Font(ForestUI::Font(10)).ColorAndOpacity(ForestUI::Muted).AutoWrapText(true)]
-      ]]]];
+       +SVerticalBox::Slot().AutoHeight()[SAssignNew(Title,STextBlock).Font_Lambda([this](){return bFinderVisible?ForestUI::FinderFont(21):ForestUI::Font(21);}).ColorAndOpacity(ForestUI::Ink).AutoWrapText(true)]
+       +SVerticalBox::Slot().AutoHeight().Padding(0,8,0,0)[SAssignNew(Subtitle,STextBlock).Font(ForestUI::FinderFont(11)).ColorAndOpacity(ForestUI::Muted).AutoWrapText(true)]
+       +SVerticalBox::Slot().FillHeight(1)[SAssignNew(Switcher,SWidgetSwitcher)
+        +SWidgetSwitcher::Slot()[SNullWidget::NullWidget]
+        +SWidgetSwitcher::Slot()[DialoguePanel]
+        +SWidgetSwitcher::Slot()[Selection]
+        +SWidgetSwitcher::Slot()[Confirmation]
+        +SWidgetSwitcher::Slot()[Travel]]
+       +SVerticalBox::Slot().AutoHeight().Padding(0,12,0,0)[SAssignNew(Prompt,STextBlock).Font_Lambda([this](){return bFinderVisible?ForestUI::FinderFont(10):ForestUI::Font(10);}).ColorAndOpacity(ForestUI::Muted).AutoWrapText(true)]]]]];
  Root=Built;SetPanel(EPanel::Notice);return Built;
+}
+void UForestNPCInteractionWidget::NativeTick(const FGeometry& Geometry,float DeltaTime)
+{
+ Super::NativeTick(Geometry,DeltaTime);if(!PanelFrame.IsValid())return;
+ const FVector2D Size=Geometry.GetLocalSize();if(Size.X<=0 || Size.Y<=0)return;
+ const float Limit=bFinderVisible?1100.f:Panel==EPanel::Travelling?1000.f:760.f;
+ LayoutWidth=FMath::Max(1.f,FMath::Min(Limit,static_cast<float>(Size.X)-48.f));PanelFrame->SetWidthOverride(LayoutWidth);
+ const float Height=Panel==EPanel::Travelling?(LayoutWidth<700.f?600.f:400.f):bFinderVisible?640.f:540.f;
+ PanelFrame->SetHeightOverride(Panel==EPanel::Notice?FOptionalSize():FOptionalSize(FMath::Max(1.f,FMath::Min(Height,static_cast<float>(Size.Y)-48.f))));
 }
 void UForestNPCInteractionWidget::ShowMessage(const FString& Name,const FString&,const FString& Hint)
 {
@@ -206,16 +208,16 @@ void UForestNPCInteractionWidget::ShowFinderConfirmation(const FString& Characte
  for(const FString& Key:Items)
  {
   const auto View=ForestUI::ReadItem(GetWorld(),Key);
-  FinderGrid->AddSlot()[SNew(SBox).WidthOverride(145).HeightOverride(124)
+  FinderGrid->AddSlot()[SNew(SBox).WidthOverride_Lambda([this](){return FMath::Max(1.f,FMath::Min(190.f,LayoutWidth-84.f));}).HeightOverride(180)
    [SNew(SButton).ButtonStyle(&ForestTheme::SecondaryButton()).ContentPadding(FMargin(8,7))
     .ButtonColorAndOpacity_Lambda([this,Key](){return SelectedFee==Key?ForestTheme::SelectedPaper:FLinearColor::White;})
     .OnClicked_Lambda([this,Key](){if(Manager.IsValid())Manager->SelectFeeItem(Key);return FReply::Handled();})
     [SNew(SVerticalBox)
      +SVerticalBox::Slot().AutoHeight().HAlign(HAlign_Center)[SNew(SBox).WidthOverride(54).HeightOverride(42)[SNew(SImage).Image(ForestTheme::ElementIcon(View.Icon))]]
-     +SVerticalBox::Slot().FillHeight(1).VAlign(VAlign_Center)[SNew(STextBlock).Text(FText::FromString(View.Name)).Font(ForestUI::Font(11)).ColorAndOpacity(ForestUI::Ink).WrapTextAt(126).Justification(ETextJustify::Center)]
-     +SVerticalBox::Slot().AutoHeight().HAlign(HAlign_Center)[SNew(STextBlock).Text(FText::FromString(View.Attribute+(View.Count>0?FString::Printf(TEXT(" · 持有%d个"),View.Count):TEXT(" · 可交付1个")))).Font(ForestUI::Font(9)).ColorAndOpacity(ForestUI::Muted)]]]];
+     +SVerticalBox::Slot().FillHeight(1).VAlign(VAlign_Center)[SNew(STextBlock).Text(FText::FromString(View.Name)).Font(ForestUI::FinderFont(12)).ColorAndOpacity(ForestUI::Ink).AutoWrapText(true).Justification(ETextJustify::Center)]
+     +SVerticalBox::Slot().AutoHeight().HAlign(HAlign_Center)[SNew(STextBlock).Text(FText::FromString(View.Attribute+(View.Count>0?FString::Printf(TEXT(" · 持有%d个"),View.Count):TEXT(" · 可交付1个")))).Font(ForestUI::FinderFont(9)).ColorAndOpacity(ForestUI::Muted).AutoWrapText(true)]]]];
  }
- for(int32 I=Items.Num();I<6;++I)FinderGrid->AddSlot()[SNew(SBox).WidthOverride(145).HeightOverride(124)[SNew(SBorder).BorderImage(ForestUI::Fill()).BorderBackgroundColor(ForestTheme::Edge.CopyWithNewOpacity(.10f))]];
+ for(int32 I=Items.Num();I<6;++I)FinderGrid->AddSlot()[SNew(SBox).WidthOverride_Lambda([this](){return FMath::Max(1.f,FMath::Min(190.f,LayoutWidth-84.f));}).HeightOverride(180)[SNew(SBorder).BorderImage(ForestUI::Fill()).BorderBackgroundColor(ForestTheme::Edge.CopyWithNewOpacity(.10f))]];
  if(Items.IsEmpty())FinderItemDescription->SetText(FText::FromString(TEXT("背包里还没有可交付的物品。采集一些小物后，再来寻找同伴吧。")));
  Prompt->SetText(FText::FromString(TEXT("返回不会扣除物品；启程前会检查路线。小物启程后会随着引路的魔法消散。")));SetKeyboardFocus();
 }
@@ -225,7 +227,7 @@ void UForestNPCInteractionWidget::ShowSelectedFee(const FString& FeeItem)
  if(FeeItem.IsEmpty())
  {
   FinderItemName->SetText(FText::FromString(TEXT("选择一件小物")));FinderItemAttribute->SetText(FText::GetEmpty());
-  FinderItemDescription->SetText(FText::FromString(TEXT("点击左侧物品，查看描述与交付数量。")));FinderFee->SetText(FText::FromString(TEXT("尚未选择，不会扣除物品。")));return;
+  FinderItemDescription->SetText(FText::FromString(TEXT("点击物品，查看描述与交付数量。")));FinderFee->SetText(FText::FromString(TEXT("尚未选择，不会扣除物品。")));return;
  }
  const auto View=ForestUI::ReadItem(GetWorld(),FeeItem);
  FinderItemName->SetText(FText::FromString(View.Name));FinderItemAttribute->SetText(FText::FromString(View.Attribute));FinderItemDescription->SetText(FText::FromString(View.Description));

diff --git a/Source/demo3_UE58/ForestNPCInteraction.h b/Source/demo3_UE58/ForestNPCInteraction.h
@@ -5,7 +5,7 @@
 #include "Subsystems/WorldSubsystem.h"
 #include "ForestTravelNarrativeSubsystem.h"
 #include "ForestNPCInteraction.generated.h"
-class SButton;class SEditableTextBox;class SScrollBox;class STextBlock;class SWidgetSwitcher;class SScaleBox;class SWrapBox;
+class SButton;class SEditableTextBox;class SScrollBox;class STextBlock;class SWidgetSwitcher;class SBox;class SWrapBox;
 class AAIController;class ACharacter;class APlayerController;class AForestRoadAIController;class AForestNPCInteraction;class UForestNPCDialogueSubsystem;
 UCLASS()
 class DEMO3_UE58_API UForestNPCInteractionWidget : public UUserWidget
@@ -23,6 +23,7 @@ public:
  void FocusInput();
 protected:
  virtual TSharedRef<SWidget> RebuildWidget() override;
+ virtual void NativeTick(const FGeometry&,float) override;
  virtual FReply NativeOnPreviewKeyDown(const FGeometry& Geometry,const FKeyEvent& Event) override;
 private:
  TSharedPtr<SWidget> Root;
@@ -35,7 +36,8 @@ private:
  enum class EPanel:uint8 {Notice,Conversation,Selecting,Confirming,Travelling};
  EPanel Panel=EPanel::Notice;
  void SetPanel(EPanel Mode);
- TSharedPtr<SScaleBox> AdaptivePanel;
+ TSharedPtr<SBox> AdaptivePanel,PanelFrame;
+ float LayoutWidth=1100.f;
  TSharedPtr<SWidgetSwitcher> Switcher;
  TSharedPtr<STextBlock> Subtitle;
  TSharedPtr<SWrapBox> FinderGrid;

diff --git a/Docs/NPC_Finder_UI_2026-10-14.md b/Docs/NPC_Finder_UI_2026-10-14.md
@@ -32,3 +32,21 @@
 - 离线尺寸检查：800×600、1280×720、1920×1080、640×360；未发现横向越界或按钮超出面板。800下选人约752×392、支付752×423、移动752×271；1280下保持设计尺寸。截图使用800与1280视口。
 - 未启动UE、PIE或游戏窗口。HTML仅模拟缩放与流程，字体是系统宋体；实际Slate沿用引擎字体，不能把HTML截图或HTML边界检查当作UE实机验收。预览同时排出三个阶段，游戏里按流程切换；预览的Natta/纽扣选中仅为示例，游戏首次打开无默认选择。
 - UE实机上的鼠标/键盘操作、DPI、缩放后命中、空包、长名称/大库存、扣费/退款与移动过程仍待运行验证。
+
+## 2026-10-27 自适应与常规字号修正（批次10）
+
+用户指出消耗物品跟随NPC这一组UI同样有尺寸/阅读问题。本批覆盖V选人、选择交付物品、行进叙事三个阶段。
+
+取消SScaleBox固定画布整体缩小。改为全视口内的SBox定位，读取实际Slate逻辑宽高、四边留24，选人/交付最大1100×640，行进最大1000×400；窄于700逻辑宽度时行进高度可增至600，所有有固定高的面板都被可用窗口高度限制。没有把物理像素重复当逻辑像素使用。
+
+选人卡片260宽自动换行、内容区域滚动；物品卡从145×124增至190×180，自动换行。交付页在880宽阈值从并列网格/详情改为上下排列，详情不再强制写“左侧”；页面内容滚动，返回/确认位于内容滚动区外并自动换行。窗口变化不重建Widget，不清空已选NPC或物品，不调用扣料/退款。
+
+FinderFont最小实际Slate Size18，物品描述/行进正文Size22，目标/物品名依层级增大。共享对话Widget宿主也改用可用尺寸限制，但原NPC对话字号、发送、焦点和记忆逻辑保持。头像仅占位，窄头像框文案可换行。行进页继续鼠标穿透、保留WASD/Esc停止和既有自动走路流程，不抢输入。
+
+游戏逻辑AForestNPCInteraction从构造函数起的代码与本批基线逐字一致，消耗1个/手动选择/再校验/失败退款/路线/AI提示词没有改动。这里只做Widget布局与显示文字。
+
+应用：合并Source/demo3_UE58/ForestNPCInteraction.h/.cpp后编译，沿用ForestUITheme、纸页/元素PNG；无地图、蓝图、配置、存档变更。备份位于完整工程Saved/CodexBackups/finder-layout-20261027。前置批次09修复的物品涌现框与本批是不同入口，两者都保留。
+
+本次UE5.8 Mac Development Editor UHT、源码与链接成功，源码同步及差异检查通过。HTML预览移除整页缩放、保留原交互演示。在1280×720、800×600、360×640、1280×360下，交付确认按钮位于面板内、无页面横向越界、故事22px；演示更换NPC后清空选物并禁用启程，手动选铜铃后启用，启程后显示对应Fawnia故事。更新NPC_Finder_Preview.html/.jpg、NPC_Finder_Preview_800.jpg，新增Payment/Travel单独截图（文件名NPC_Finder_Payment_Preview.jpg、NPC_Finder_Travel_Preview.jpg）。
+
+未打开UE/PIE；原生DPI、多屏、长库存/名称、滚动与焦点、运行中切换阶段、扣料/行走/退款仍待实机验收。HTML交互不读取或扣除实际背包，不能视为游戏玩法测试。极矮/极窄窗口可能需要滚动；行进保持鼠标穿透，极端长故事在最小窗口可见范围仍有限。

diff --git a/CHANGELOG.md b/CHANGELOG.md
@@ -2,6 +2,17 @@
 
 本文件记录增量仓库每次提交上传的内容。最新更新放在最前面；每次上传前必须把本条记录与对应文件一起提交。验证状态应区分“本次验证”“历史记录”与“未验证”。
 
+## 2026-10-27-10：修复消耗物品寻找NPC的界面尺寸与字号
+
+- **目的 / 基线 / 前置**：继续修复用户指出的选人/交付/行进UI问题；基于本地批次09提交 `2a74fd2`，依赖前序NPC寻找与共享纸页主题。
+- **修改**：Source/demo3_UE58/ForestNPCInteraction.h/.cpp；Docs/NPC_Finder_Preview.html、NPC_Finder_Preview.jpg、NPC_Finder_Preview_800.jpg、NPC_Finder_UI_2026-10-14.md、HarvestMagic_2026-10-13.md；本记录。后者补记用户已确认批次09入口。
+- **新增**：Docs/NPC_Finder_Payment_Preview.jpg、NPC_Finder_Travel_Preview.jpg。
+- **行为**：取消整体缩小，按Slate可用尺寸布局；选人/物品卡换行，交付页窄窗上下排列，按钮独立保留，文字至少18、描述/故事22；行进纸页扩大且保持鼠标穿透。共享对话宿主跟随可用尺寸，但原对话字号/逻辑保留。
+- **依赖 / 应用**：合并两份源码编译，沿用纸页/元素PNG；无资产、配置、存档变更。详细行为与边界见NPC_Finder_UI追加说明。
+- **验证**：Mac UE5.8 UHT、源码/链接成功；两份源码同步、差异检查；Actor扣物品/寻路/退款逻辑与基线逐字一致；离线四尺寸无横向越界、交付按钮在面板内，演示手动选物与生成目标故事切换通过。
+- **未验证**：未开UE/PIE；原生DPI/焦点/长内容及实际扣料、移动、退款待实机验收，HTML不是游戏运行测试。
+- **上传状态**：批次09与本批待上传，远程核对后补记。
+
 ## 2026-10-27-09：修复物品涌现提示的固定小框
 
 - **目的 / 基线 / 前置**：针对“涌现时框特别小”追查发现物品提示被锁620×160；基于main `9cd8fa4`，前置采摘炼化与纸页主题。此前两批修的是不同界面。
@@ -10,7 +21,7 @@
 - **行为**：仅调整“魔法书捎来一件小物 / 获得：名称·属性”提示。移除固定视口尺寸和一次性物理像素定位；全视口Slate锚定，宽度上限960随窗口更新，高随文案展开。标题18/正文22，保留AI、入包、8秒时长与鼠标穿透。
 - **依赖 / 应用**：合并两份源码编译，沿用纸页主题/PNG；无资产、配置、存档改动，不修改合成台/推演页或旧锅蓝图。
 - **验证**：本次Mac UE5.8 UHT、源码编译和链接成功；源码同步与差异检查；离线样例三尺寸框随文案增高、文本在视口内且无横向越界。
-- **未验证**：未开UE/PIE，用户现场具体弹框尚待核对；原生DPI/连续回复/最长文案和极矮窗口待运行验收。截图非引擎；极端窗口可通过背包查看完整描述，本提示未加交互滚动。
+- **未验证**：未开UE/PIE；用户已确认物品名称/属性/描述入口，原生DPI/连续回复/最长文案和极矮窗口待运行验收。截图非引擎；极端窗口可通过背包查看完整描述，本提示未加交互滚动。
 - **上传状态**：待上传，远程核对后补记。
 
 ## 2026-10-27-08：补记常规字号放大上传结果
